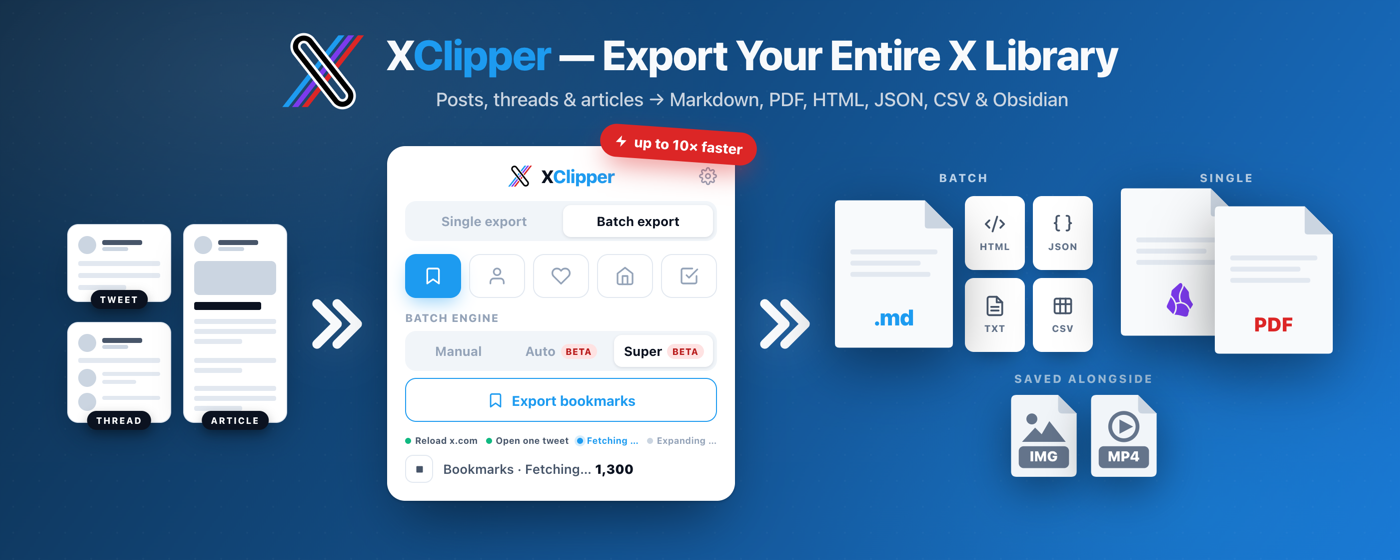
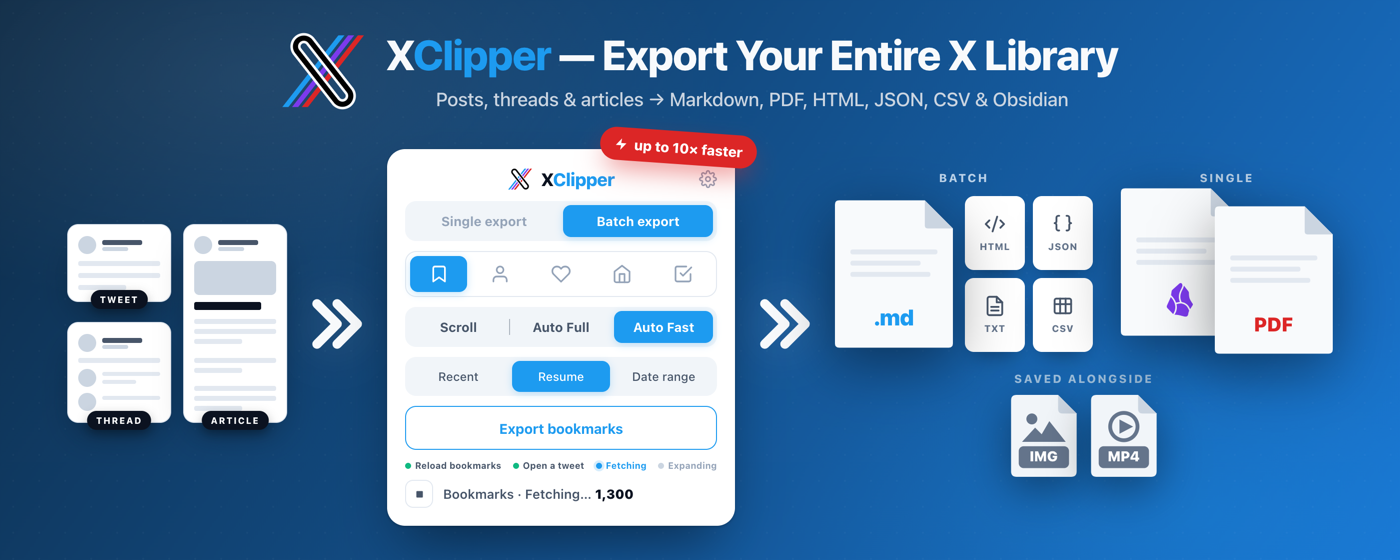
fix(mockups): show the renamed engines and new selectors in the marquee tile
Match screenshot 07: blue selected pills, one outlined source strip, the
engine and fetch-mode tracks, an icon-free Export button, and the current
readiness labels. A 10px row gap and a 14px nudge down keep the badge
clear of the header.

diff --git a/store/mockups/promo.html b/store/mockups/promo.html
@@ -94,13 +94,17 @@
   /* ── Batch popup (left) ── */
   .mqp{
     position: relative;
+    /* Nudged below center so the badge clears the header with room to spare. */
+    top: 14px;
     width: 348px;
     background: #ffffff;
     border-radius: 18px;
     box-shadow: 0 30px 60px -16px rgba(0,0,0,.5), 0 1px 3px rgba(0,0,0,.2);
     padding: 18px;
     color: #0b1220;
-    display: flex; flex-direction: column; gap: 13px;
+    /* 10px, not image 07's 14px: the fetch-mode row made the popup taller,
+       and the badge must clear the subtitle above it. */
+    display: flex; flex-direction: column; gap: 10px;
     flex-shrink: 0;
   }
   .mqp-head{ position: relative; display: flex; align-items: center; justify-content: center; }
@@ -112,29 +116,33 @@
 
   .mqp-seg{ display: flex; background: #f1f5f9; border-radius: 11px; padding: 4px; gap: 4px; }
   .mqp-seg .opt{ flex: 1; text-align: center; font-size: 13px; font-weight: 700; color: #94a3b8; padding: 8px 0; border-radius: 8px; }
-  .mqp-seg .opt.active{ background: #fff; color: #0b1220; box-shadow: 0 1px 3px rgba(15,23,42,.12); }
+  /* Selected is a blue fill with white text in every selector, as in the popup. */
+  .mqp-seg .opt.active{ background: var(--brand-blue); color: #fff; box-shadow: 0 2px 8px rgba(29,155,240,.25); }
 
-  .mqp-tabs{ display: flex; gap: 8px; }
+  /* Source tabs: one outlined strip with the selected tab as a blue pill inside. */
+  .mqp-tabs{ display: flex; gap: 4px; padding: 4px; border: 1px solid var(--line); border-radius: 11px; }
   .mqp-tab{
-    flex: 1; height: 44px; border: 1px solid var(--line); border-radius: 11px;
+    flex: 1; height: 36px; border-radius: 8px;
     display: flex; align-items: center; justify-content: center; color: #94a3b8;
   }
   .mqp-tab svg{ width: 20px; height: 20px; fill: none; stroke: currentColor; stroke-width: 2; stroke-linecap: round; stroke-linejoin: round; }
-  .mqp-tab.active{ background: var(--brand-blue); border-color: var(--brand-blue); color: #fff; box-shadow: 0 8px 18px -4px rgba(29,155,240,.45); }
+  .mqp-tab.active{ background: var(--brand-blue); color: #fff; box-shadow: 0 2px 8px rgba(29,155,240,.25); }
 
-  .mqp-mode-field{ display: flex; flex-direction: column; gap: 7px; }
-  .mqp-mode-label{ font-size: 11px; font-weight: 800; color: #94a3b8; letter-spacing: .06em; text-transform: uppercase; }
-  .mqp-mode{ display: flex; align-items: center; background: #f1f5f9; border-radius: 11px; padding: 4px; gap: 4px; }
-  .mqp-mode .opt{ flex: 1; display: flex; align-items: center; justify-content: center; gap: 5px; font-size: 13px; font-weight: 700; color: #94a3b8; padding: 8px 0; border-radius: 8px; }
-  .mqp-mode .opt.active{ background: #ffffff; color: #0b1220; box-shadow: 0 1px 3px rgba(15,23,42,.12); }
-  .mqp-mode .beta{ font-size: 9px; font-weight: 800; color: #b91c1c; background: #fee2e2; border-radius: 999px; padding: 2px 5px; letter-spacing: .04em; text-transform: uppercase; }
+  /* Engine + fetch mode: separate gray tracks with a blue pill, like the
+     Single / Batch row. A short divider separates two unselected neighbors. */
+  .mqp-mode{ display: flex; background: #f1f5f9; border-radius: 11px; padding: 4px; gap: 4px; }
+  .mqp-mode .opt{ position: relative; flex: 1; display: flex; align-items: center; justify-content: center; font-size: 13px; font-weight: 700; color: #475569; padding: 8px 0; border-radius: 8px; }
+  .mqp-mode .opt + .opt::before{ content: ''; position: absolute; left: -2.5px; top: 25%; bottom: 25%; width: 1px; background: #475569; opacity: .4; }
+  .mqp-mode .opt.active::before, .mqp-mode .opt.active + .opt::before{ display: none; }
+  .mqp-mode .opt.active{ background: var(--brand-blue); color: #fff; box-shadow: 0 2px 8px rgba(29,155,240,.25); }
+  /* Fetch mode is the secondary choice, lighter than the engine row, as in the popup. */
+  .mqp-mode.fetch .opt{ font-size: 12px; font-weight: 500; }
   /* Mirrors the popup's outlined .btn-primary — the batch CTA. */
   .mqp-cta{
     display: flex; align-items: center; justify-content: center; gap: 8px;
     height: 44px; border: 1px solid var(--brand-blue); border-radius: 11px;
     color: var(--brand-blue); font-size: 14px; font-weight: 700; letter-spacing: -.01em;
   }
-  .mqp-cta svg{ width: 17px; height: 17px; fill: none; stroke: currentColor; stroke-width: 2; stroke-linecap: round; stroke-linejoin: round; }
 
   .mqp-prog{ display: flex; flex-direction: column; gap: 9px; }
   .mqp-prow{ display: flex; align-items: center; gap: 10px; }
@@ -346,7 +354,7 @@
         </svg>
       </div>
 
-      <!-- Stage 2: Batch popup, Super engine running -->
+      <!-- Stage 2: Batch popup, Auto Fast running -->
       <div class="mqp">
         <div class="mqp-badge">
           <svg viewBox="0 0 24 24"><polygon points="13 2 3 14 12 14 11 22 21 10 12 10 13 2"/></svg>
@@ -374,27 +382,27 @@
           <div class="mqp-tab" title="Selection"><svg viewBox="0 0 24 24"><polyline points="9 11 12 14 22 4"/><path d="M21 12v7a2 2 0 0 1-2 2H5a2 2 0 0 1-2-2V5a2 2 0 0 1 2-2h11"/></svg></div>
         </div>
 
-        <div class="mqp-mode-field">
-          <div class="mqp-mode-label">Batch engine</div>
-          <div class="mqp-mode">
-            <div class="opt">Manual</div>
-            <div class="opt">Auto<span class="beta">Beta</span></div>
-            <div class="opt active">Super<span class="beta">Beta</span></div>
-          </div>
-          <div class="mqp-cta">
-            <svg viewBox="0 0 24 24"><path d="M19 21l-7-5-7 5V5a2 2 0 0 1 2-2h10a2 2 0 0 1 2 2z"/></svg>
-            Export bookmarks
-          </div>
+        <div class="mqp-mode">
+          <div class="opt">Scroll</div>
+          <div class="opt">Auto Full</div>
+          <div class="opt active">Auto Fast</div>
+        </div>
+        <div class="mqp-mode fetch">
+          <div class="opt">Recent</div>
+          <div class="opt active">Resume</div>
+          <div class="opt">Date range</div>
         </div>
 
-        <!-- Super running: Stop but no Pause, and no determinate bar -
+        <div class="mqp-cta">Export bookmarks</div>
+
+        <!-- Auto Fast running: Stop but no Pause, and no determinate bar -
              collection is open-ended, so the step lights and live count carry it. -->
         <div class="mqp-prog">
           <div class="mqp-steps">
-            <span class="mqp-step done">Reload x.com</span>
-            <span class="mqp-step done">Open one tweet</span>
-            <span class="mqp-step live">Fetching &hellip;</span>
-            <span class="mqp-step">Expanding &hellip;</span>
+            <span class="mqp-step done">Reload bookmarks</span>
+            <span class="mqp-step done">Open a tweet</span>
+            <span class="mqp-step live">Fetching</span>
+            <span class="mqp-step">Expanding</span>
           </div>
           <div class="mqp-prow">
             <div class="mqp-ctl"><svg viewBox="0 0 24 24"><rect x="6" y="6" width="12" height="12" rx="1.5"/></svg></div>
